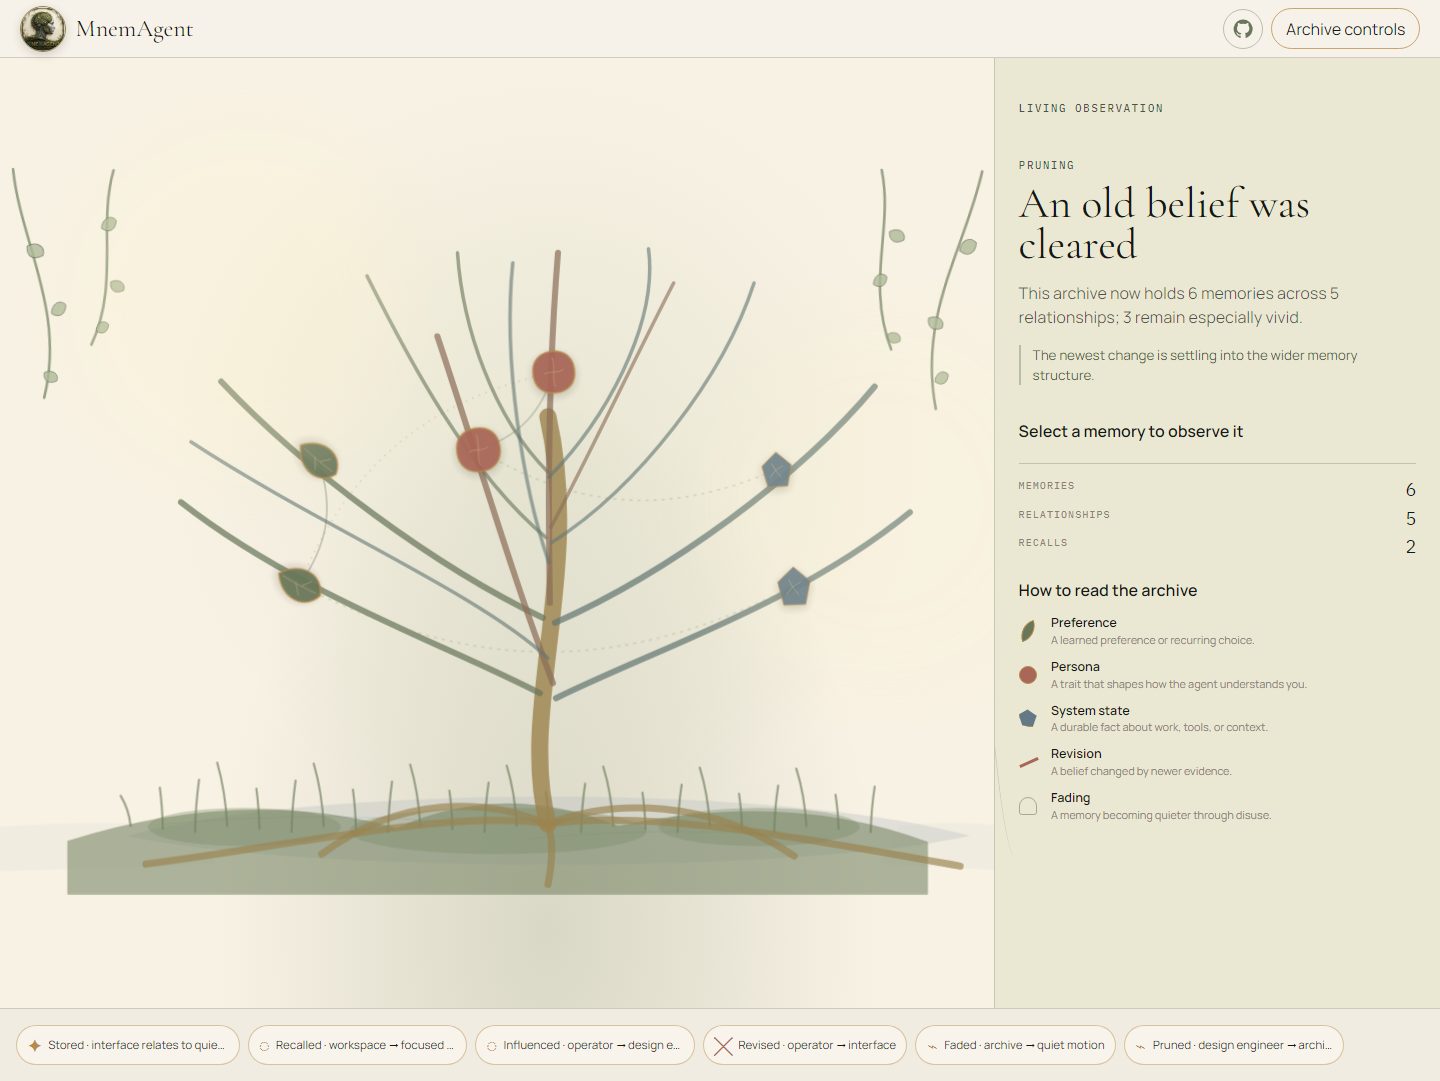
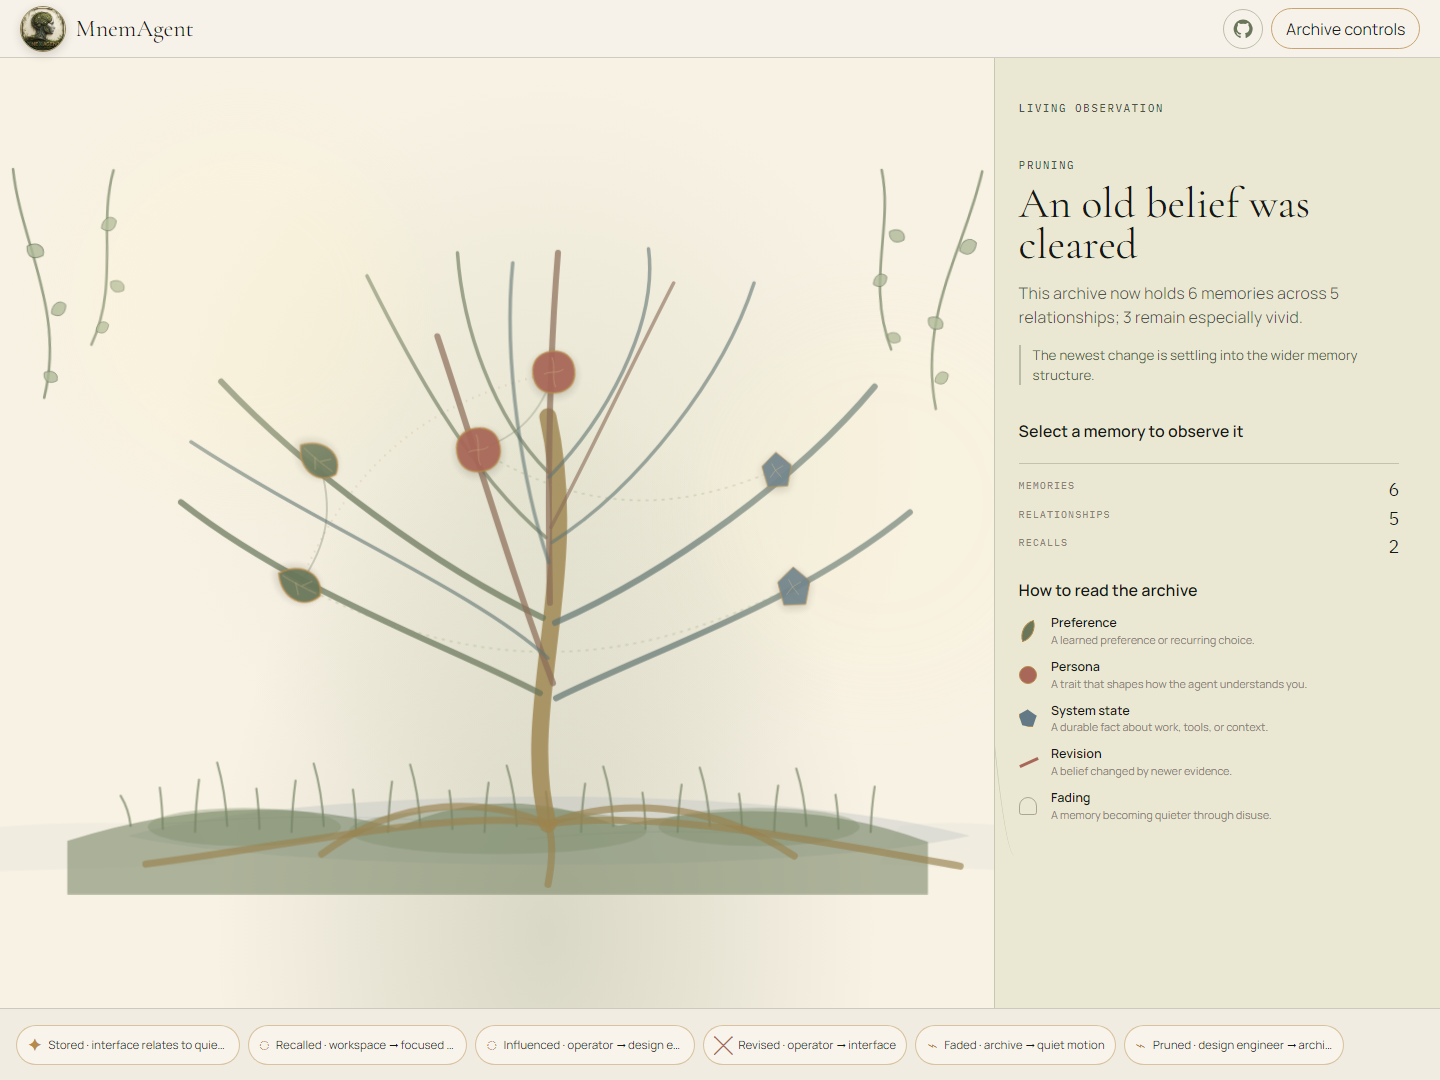
fix: contain archive scrolling and sizing

diff --git a/openclaw-harness/src/public/styles/base.css b/openclaw-harness/src/public/styles/base.css
@@ -1,10 +1,10 @@
 * { box-sizing: border-box; }
-html, body { margin: 0; min-height: 100%; background: color-mix(in srgb, var(--bone) 88%, #fff7df); color: var(--ink); font-family: var(--font-body); }
+html, body { margin: 0; width: 100%; height: 100%; min-height: 100%; overflow: hidden; background: color-mix(in srgb, var(--bone) 88%, #fff7df); color: var(--ink); font-family: var(--font-body); }
 body { background-image: url('/assets/paper-grain.svg'); line-height: 1.5; }
 .sr-only { position: absolute; width: 1px; height: 1px; padding: 0; margin: -1px; overflow: hidden; clip: rect(0, 0, 0, 0); white-space: nowrap; border: 0; }
 .skip-link { position: absolute; left: 1rem; top: -3rem; background: var(--bone); color: var(--ink); padding: .5rem 1rem; z-index: var(--z-dialog); }
 .skip-link:focus { top: 1rem; }
-.archive-app { min-height: 100vh; }
+.archive-app { display: grid; grid-template-rows: var(--header-h) minmax(0, 1fr) var(--timeline-h); width: 100%; height: 100dvh; min-height: 0; overflow: hidden; }
 .archive-header { height: var(--header-h); display: flex; align-items: center; justify-content: space-between; padding: 0 1.25rem; background: color-mix(in srgb, var(--bone) 92%, white); border-bottom: 1px solid color-mix(in srgb, var(--ink) 18%, transparent); position: relative; z-index: var(--z-header); }
 .archive-brand { display: flex; align-items: center; gap: .6rem; color: var(--ink); text-decoration: none; font-family: var(--font-display); font-size: 1.5rem; }
 .archive-brand img { width: 46px; height: 46px; object-fit: cover; object-position: 50% 42%; border: 1px solid color-mix(in srgb, var(--moss) 48%, var(--brass)); border-radius: 50%; box-shadow: 0 3px 10px rgba(49,47,37,.18); }
@@ -13,12 +13,12 @@ body { background-image: url('/assets/paper-grain.svg'); line-height: 1.5; }
 .github-link svg { width: 20px; height: 20px; fill: currentColor; }
 .github-link:hover { color: var(--ink); border-color: var(--brass); background: color-mix(in srgb, var(--leaf) 24%, var(--bone)); }
 button, input { font: inherit; }
-.archive-composition { display: grid; grid-template-columns: minmax(0, 1fr) var(--observation-w); min-height: calc(100vh - var(--header-h) - var(--timeline-h)); }
-.archive-stage { position: relative; z-index: var(--z-stage); min-height: 500px; }
+.archive-composition { display: grid; grid-template-columns: minmax(0, 1fr) var(--observation-w); min-width: 0; min-height: 0; overflow: hidden; }
+.archive-stage { position: relative; z-index: var(--z-stage); min-width: 0; min-height: 0; }
 .archive-stage svg { width: 100%; height: 100%; display: block; }
 .observation-margin { padding: 2rem 1.5rem; background: color-mix(in srgb, var(--lichen-green) 20%, #fff8e8); border-left: 1px solid color-mix(in srgb, var(--living-moss) 28%, transparent); z-index: var(--z-annotation); }
 .observation-eyebrow { font: 500 .7rem var(--font-mono); letter-spacing: .12em; text-transform: uppercase; color: var(--brass); }
-.sediment-timeline { min-height: var(--timeline-h); border-top: 1px solid color-mix(in srgb, var(--ink) 16%, transparent); padding: 1rem; }
+.sediment-timeline { width: 100%; height: 100%; min-height: 0; border-top: 1px solid color-mix(in srgb, var(--ink) 16%, transparent); padding: .75rem 1rem; }
 .archive-header button { border: 1px solid color-mix(in srgb, var(--brass) 74%, transparent); border-radius: 999px; padding: .45rem .85rem; background: transparent; color: var(--ink); cursor: pointer; }
 .archive-header button:hover { background: color-mix(in srgb, var(--leaf) 24%, var(--bone)); border-color: var(--moss); }
 .archive-menu { width: min(92vw, 560px); max-height: 88vh; padding: 0; z-index: var(--z-dialog); background: var(--bone); color: var(--ink); border: 1px solid var(--brass); border-radius: 1.2rem; box-shadow: 0 28px 90px rgba(49,47,37,.26); }

diff --git a/openclaw-harness/src/public/styles/responsive.css b/openclaw-harness/src/public/styles/responsive.css
@@ -1,8 +1,10 @@
 .observation-sheet { display: none; }
 .memory-companion-list { min-height: 44px; }
 @media (max-width: 1099px) {
-  .archive-composition { grid-template-columns: 1fr; grid-template-rows: minmax(520px, 66vh) auto; }
-  .observation-margin { border-left: 0; border-top: 1px solid color-mix(in srgb, var(--bone-white) 20%, transparent); padding: 1.25rem 1.5rem; }
+  html, body { height: auto; overflow: auto; }
+  .archive-app { display: block; height: auto; min-height: 100vh; overflow: visible; }
+  .archive-composition { grid-template-columns: 1fr; grid-template-rows: minmax(520px, 66vh) auto; overflow: visible; }
+  .observation-margin { overflow: visible; border-left: 0; border-top: 1px solid color-mix(in srgb, var(--bone-white) 20%, transparent); padding: 1.25rem 1.5rem; }
   .observation-margin h2 { font-size: clamp(1.8rem, 5vw, 3rem); }
 }
 @media (max-width: 700px) {

diff --git a/openclaw-harness/src/public/scripts/interactions/archive-navigation.js b/openclaw-harness/src/public/scripts/interactions/archive-navigation.js
@@ -2,7 +2,7 @@ export function createArchiveNavigation(svg, world, store) {
   const d3 = globalThis.d3;
   if (!d3 || !svg || !world) return { reset() {}, focusBounds() {}, destroy() {} };
   const selection = d3.select(svg);
-  const behavior = d3.zoom().scaleExtent([0.7, 3.2]).on('zoom', event => { d3.select(world).attr('transform', event.transform); store?.dispatch({ type: 'SET_ZOOM', zoom: event.transform }); });
+  const behavior = d3.zoom().filter(event => event.type !== 'wheel' && !event.button).scaleExtent([0.7, 3.2]).on('zoom', event => { d3.select(world).attr('transform', event.transform); store?.dispatch({ type: 'SET_ZOOM', zoom: event.transform }); });
   selection.call(behavior);
   return { reset() { selection.transition().duration(180).call(behavior.transform, d3.zoomIdentity); }, focusBounds(bounds) { if (!bounds) return; const scale = Math.min(svg.clientWidth / bounds.width, svg.clientHeight / bounds.height); selection.call(behavior.transform, d3.zoomIdentity.scale(Math.max(.7, Math.min(3.2, scale)))); }, destroy() { selection.on('.zoom', null); } };
 }

diff --git a/openclaw-harness/src/public/styles/archive-stage.css b/openclaw-harness/src/public/styles/archive-stage.css
@@ -1,5 +1,5 @@
 .archive-stage { overflow: hidden; background: radial-gradient(ellipse at 55% 92%, rgba(105,118,90,.22), transparent 43%), radial-gradient(circle at 55% 42%, rgba(148,166,124,.16), transparent 49%), color-mix(in srgb, var(--bone-white) 80%, #fff5d9); }
-.archive-stage svg { min-height: 500px; }
+.archive-stage svg { min-height: 0; }
 .archive-stage .root-line, .archive-stage .trunk-line, .archive-stage .branch { fill: none; stroke-linecap: round; stroke-linejoin: round; }
 .archive-stage .root-line { stroke: color-mix(in srgb, var(--antique-brass) 64%, var(--living-moss)); stroke-width: 7; opacity: .66; }
 .archive-stage .trunk-line { stroke: color-mix(in srgb, var(--antique-brass) 68%, var(--living-moss)); stroke-width: 17; opacity: .82; }

diff --git a/openclaw-harness/src/public/styles/observation-margin.css b/openclaw-harness/src/public/styles/observation-margin.css
@@ -1,4 +1,4 @@
-.observation-margin { display: flex; flex-direction: column; gap: 1.25rem; position: relative; overflow: hidden; }
+.observation-margin { display: flex; flex-direction: column; gap: 1.25rem; position: relative; min-height: 0; overflow-x: hidden; overflow-y: auto; overscroll-behavior: contain; scrollbar-gutter: stable; }
 .observation-margin::before { content: ''; position: absolute; left: -18px; top: 12%; width: 38px; height: 72%; border-left: 1px solid color-mix(in srgb, var(--living-moss) 28%, transparent); border-radius: 50%; transform: rotate(-3deg); pointer-events: none; }
 .observation-margin h2 { margin: 0; font: 400 clamp(1.7rem, 3vw, 3rem)/.95 var(--font-display); color: var(--ink); }
 .observation-margin h3 { margin: 0; font-size: 1rem; font-weight: 600; color: var(--ink); }